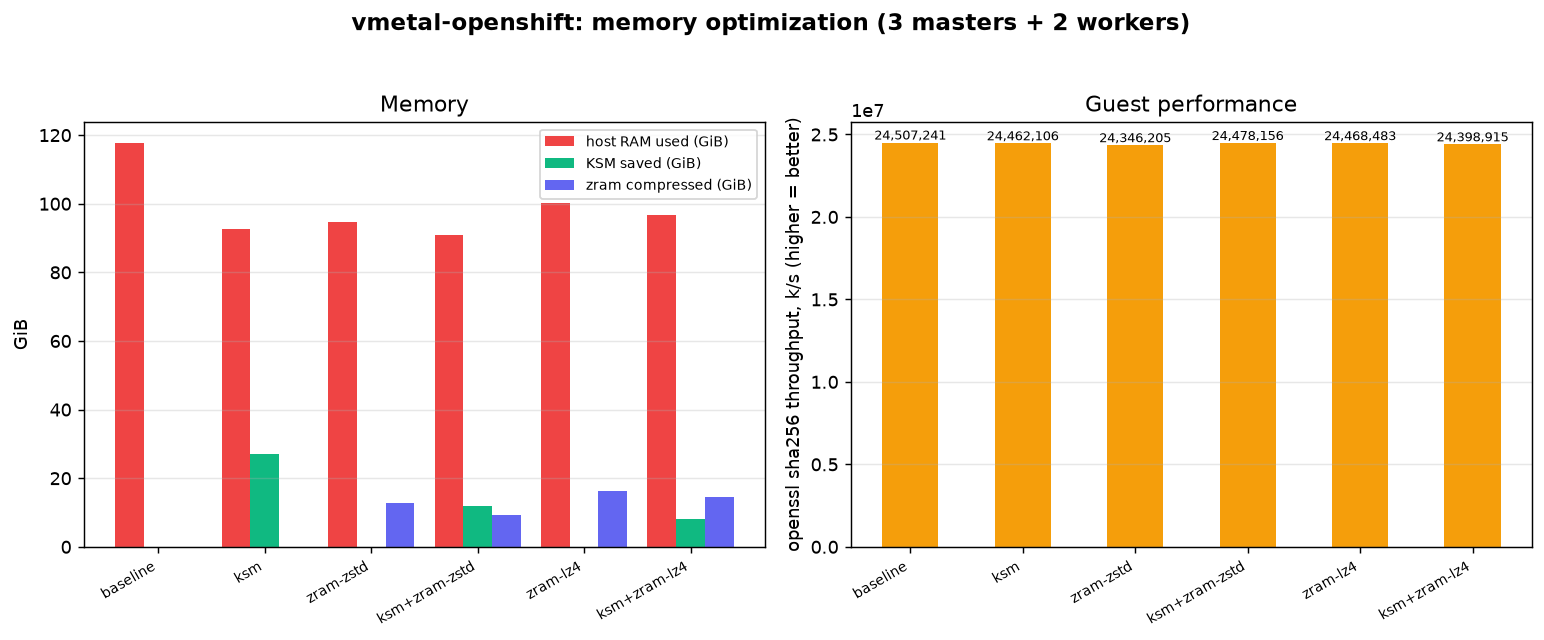
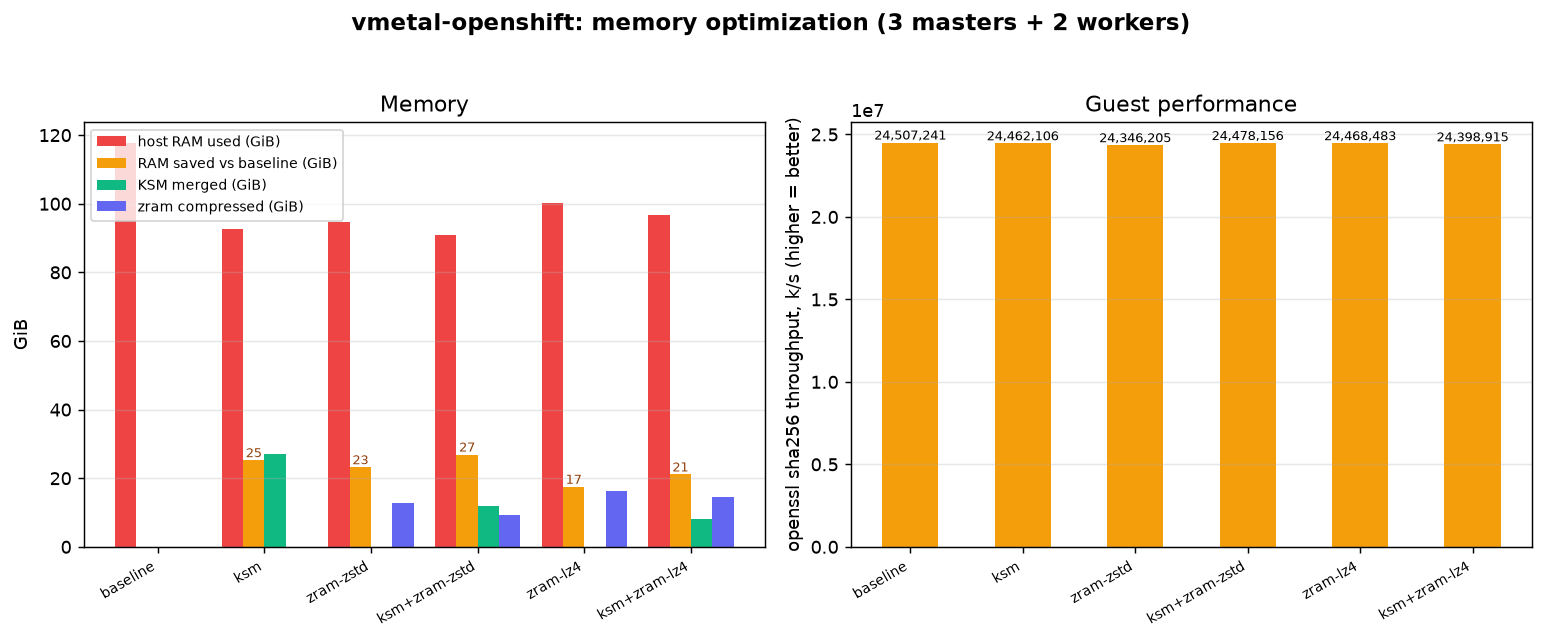
Bench: show RAM saved vs baseline (table column + chart bar)
The matrix showed the components (KSM merged, zram compressed) but not the
headline total. Add 'saved vs baseline' = baseline host RAM minus each state's,
as a table column and a chart bar. Best: KSM+zram(zstd) saves ~27 GiB.

diff --git a/scripts/plot-bench.py b/scripts/plot-bench.py
@@ -31,16 +31,21 @@ width = max(12, len(states) * 1.5)
 fig, (ax1, ax2) = plt.subplots(1, 2, figsize=(width, 5))
 fig.suptitle("vmetal-openshift: memory optimization (3 masters + 2 workers)", fontsize=13, weight="bold")
 
-w = 0.27
-ax1.bar([i - w for i in x], used, w, label="host RAM used (GiB)", color="#ef4444")
-ax1.bar([i for i in x], ksm, w, label="KSM saved (GiB)", color="#10b981")
-ax1.bar([i + w for i in x], zsw, w, label="zram compressed (GiB)", color="#6366f1")
+saved = [used[0] - u for u in used]   # RAM saved vs the baseline (first row)
+w = 0.2
+ax1.bar([i - 1.5 * w for i in x], used, w, label="host RAM used (GiB)", color="#ef4444")
+ax1.bar([i - 0.5 * w for i in x], saved, w, label="RAM saved vs baseline (GiB)", color="#f59e0b")
+ax1.bar([i + 0.5 * w for i in x], ksm, w, label="KSM merged (GiB)", color="#10b981")
+ax1.bar([i + 1.5 * w for i in x], zsw, w, label="zram compressed (GiB)", color="#6366f1")
 ax1.set_xticks(list(x))
 ax1.set_xticklabels(states, rotation=30, ha="right", fontsize=8)
 ax1.set_ylabel("GiB")
 ax1.set_title("Memory")
 ax1.legend(fontsize=8)
 ax1.grid(axis="y", alpha=0.3)
+for i, v in zip(x, saved):
+    if v > 0.5:
+        ax1.text(i - 0.5 * w, v, f"{v:.0f}", ha="center", va="bottom", fontsize=7, color="#92400e")
 
 ax2.bar(list(x), perf, 0.5, color="#f59e0b")
 ax2.set_xticks(list(x))

diff --git a/README.md b/README.md
@@ -296,14 +296,14 @@ dials down; zram fills until eviction settles).
 
 Measured on a 3 control-plane + 2 worker cluster (92 GiB allocated, 128 GiB host):
 
-| setting | host RAM | KSM saved | zram data → compr | ratio | swap | CPU (M k/s) |
-|---------|---------:|----------:|------------------:|:-----:|-----:|------------:|
-| baseline | 117.8 GiB | 0 | n/a | n/a | **0** | 24.5 |
-| KSM | 92.6 GiB | **27.0 GiB** | n/a | n/a | 0 | 24.5 |
-| zram (zstd) | 94.6 GiB | 0 | 35.6 → 12.9 GiB | **2.8×** | 37 GiB | 24.3 |
-| KSM + zram (zstd) | 90.9 GiB | 11.9 GiB | 25.6 → 9.3 GiB | 2.7× | 26 GiB | 24.5 |
-| zram (lz4) | 100.3 GiB | 0 | 33.4 → 16.3 GiB | 2.0× | 35 GiB | 24.5 |
-| KSM + zram (lz4) | 96.7 GiB | 8.3 GiB | 29.0 → 14.5 GiB | 2.0× | 30 GiB | 24.4 |
+| setting | host RAM | **saved vs baseline** | KSM merged | zram data → compr | ratio | swap | CPU (M k/s) |
+|---------|---------:|----------------------:|-----------:|------------------:|:-----:|-----:|------------:|
+| baseline | 117.8 GiB | n/a | 0 | n/a | n/a | **0** | 24.5 |
+| KSM | 92.6 GiB | **25.2 GiB** | 27.0 GiB | n/a | n/a | 0 | 24.5 |
+| zram (zstd) | 94.6 GiB | **23.2 GiB** | 0 | 35.6 → 12.9 GiB | **2.8×** | 37 GiB | 24.3 |
+| KSM + zram (zstd) | 90.9 GiB | **26.9 GiB** | 11.9 GiB | 25.6 → 9.3 GiB | 2.7× | 26 GiB | 24.5 |
+| zram (lz4) | 100.3 GiB | **17.5 GiB** | 0 | 33.4 → 16.3 GiB | 2.0× | 35 GiB | 24.5 |
+| KSM + zram (lz4) | 96.7 GiB | **21.1 GiB** | 8.3 GiB | 29.0 → 14.5 GiB | 2.0× | 30 GiB | 24.4 |
 
 Takeaways:
 * **KSM** reclaims ~27 GiB by deduping the identical RHCOS pages across nodes (its
